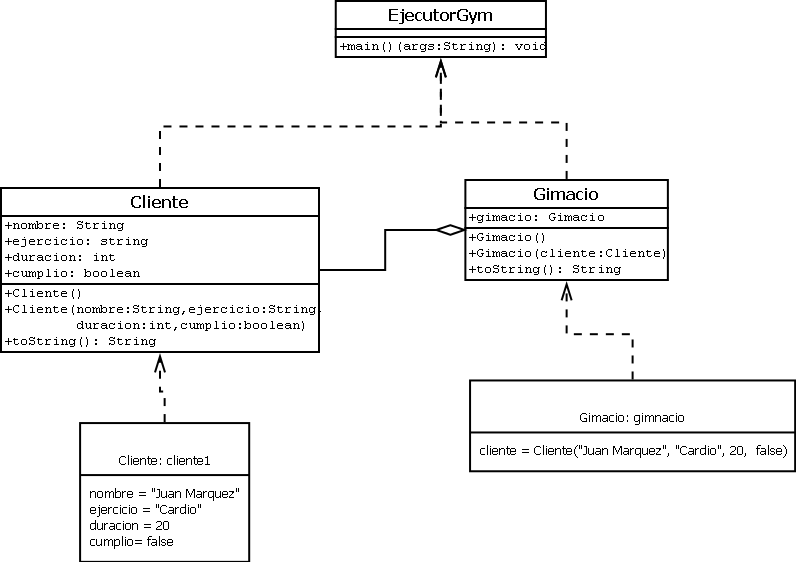
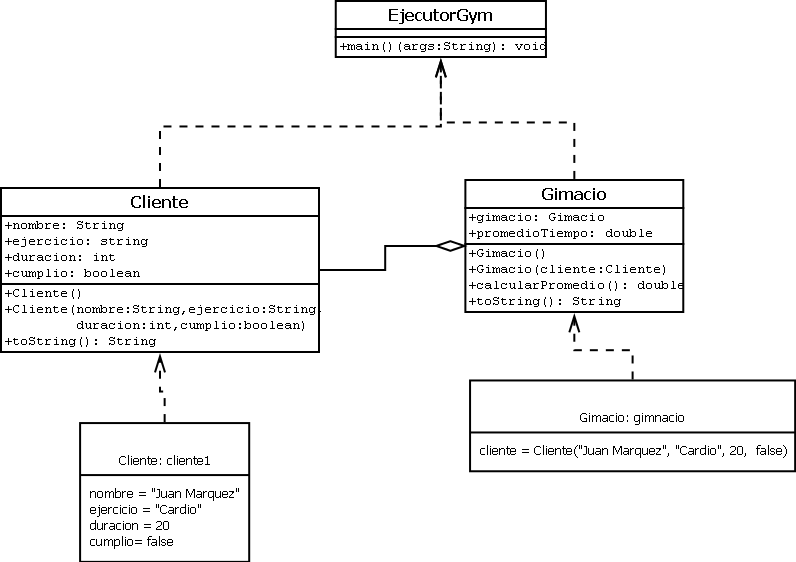
revision final

Changed region(s): [[0.4824, 0.3025, 0.8744, 0.6352], [0.5427, 0.1512, 0.7538, 0.363], [0.7839, 0.605, 0.8141, 0.6352]]

diff --git a/Solucion_Codigo/ProyectoTaller4/src/Problema5_Gym.java b/Solucion_Codigo/ProyectoTaller4/src/Problema5_Gym.java
@@ -2,55 +2,48 @@
 import java.util.ArrayList;
 import java.util.Scanner;
 
-
 public class Problema5_Gym {
-    public static Scanner sc = new Scanner (System.in);
+
+    public static Scanner sc = new Scanner(System.in);
+
     public static void main(String args[]) {
+
         String nombre[] = {"Juan", "Felipe", "Claudio", "Ana", "Rebeca"};
         String apellido[] = {"Fernandez", "Juarez", "Calles", "Díaz", "Claveles"};
         String ejercicio[] = {"Cardio", "Fuerza", "Estiramiento"};
-        int duracion[] = {10, 15, 20, 25};   
-        boolean cumplimiento [] = {true, false};
-        ArrayList <Integer> arreglotiempo= new ArrayList<>();
+        int duracion[] = {10, 15, 20, 25};
+        boolean cumplimiento[] = {true, false};
+
+        ArrayList<Integer> arreglotiempo = new ArrayList<>();
         String cumplieron = "";
-        double promediotiempo;
-        int sumatoria = 0;
+
         char opcion = 'S';
-        
-        while (opcion == 'S') {
-            String nombreCli = nombre[(int) Math.floor(Math.random() * nombre.length)] + " " + apellido[(int) Math.floor(Math.random() * apellido.length)];
-            String ejercicoCli = ejercicio [(int) Math.floor(Math.random() * ejercicio.length)];
-            int duracionCli = duracion [(int) Math.floor(Math.random() * duracion.length)];
+
+        while (opcion == 'S' || opcion == 's') {
+            String nombreCli = nombre[(int) Math.floor(Math.random() * nombre.length)] + " "
+                    + apellido[(int) Math.floor(Math.random() * apellido.length)];
+            String ejercicoCli = ejercicio[(int) Math.floor(Math.random() * ejercicio.length)];
+            int duracionCli = duracion[(int) Math.floor(Math.random() * duracion.length)];
             boolean cumplimientoCli = cumplimiento[(int) Math.floor(Math.random() * cumplimiento.length)];
+
             arreglotiempo.add(duracionCli);
-            Cliente cliente = new Cliente (nombreCli, ejercicoCli, duracionCli, cumplimientoCli);
-            
+            Cliente cliente = new Cliente(nombreCli, ejercicoCli, duracionCli, cumplimientoCli);
+
             if (cumplimientoCli) {
                 cumplieron += cliente.toString() + "\n";
             }
+
             System.out.println("Cliente generado: " + cliente);
-            System.out.print("¿Desea ingresar otro cliente(S/N)?: ");
+            System.out.print("¿Desea ingresar otro cliente (S/N)?: ");
             opcion = sc.next().charAt(0);
         }
-        
-        System.out.println("Compleataron su rutina " + cumplieron + "\n promedio de tiempo" + calcularPromedioTiempo(arreglotiempo));
-        
-    }
 
-
-
-        public static double calcularPromedioTiempo(ArrayList<Integer> tiempos) {
-        if (tiempos.isEmpty()) {
-            return 0; 
-        }
-        
-        int sumatoria = 0;
-        for (int i = 0; i < tiempos.size(); i ++) {
-            sumatoria += tiempos.get(i);
-        }
-        return (double) sumatoria / tiempos.size();
+        Gimacio gimnasio = new Gimacio();
+        System.out.println("\nCompletaron su rutina:\n" + cumplieron
+                + "\nPromedio de tiempo: " + gimnasio.calcularPromedio(arreglotiempo));
     }
 }
+
 
 
 class Cliente {
@@ -74,25 +67,36 @@ class Cliente {
     public String toString() {
         return "Cliente{" + "nombre=" + nombre + ", ejercicio=" + ejercicio + ", duracion=" + duracion + ", cumplio=" + cumplio + '}';
     }
-    
-    
-
-}  
+}
 
 class Gimacio {
 
     public Cliente cliente;
+    public double promedioTiempo;
 
-    public Gimacio() {}
+    public Gimacio() {
+    }
 
     public Gimacio(Cliente cliente) {
         this.cliente = cliente;
+    }
+
+    public double calcularPromedio(ArrayList<Integer> tiempos) {
+        if (tiempos.isEmpty()) {
+            return 0;
+        }
+
+        int sumatoria = 0;
+        for (int i = 0; i < tiempos.size(); i++) {
+            sumatoria += tiempos.get(i);
+        }
+
+        this.promedioTiempo = (double) sumatoria / tiempos.size();
+        return this.promedioTiempo;
     }
 
     @Override
     public String toString() {
         return "Gimacio{" + "cliente=" + cliente + '}';
     }
-    
-
 }
